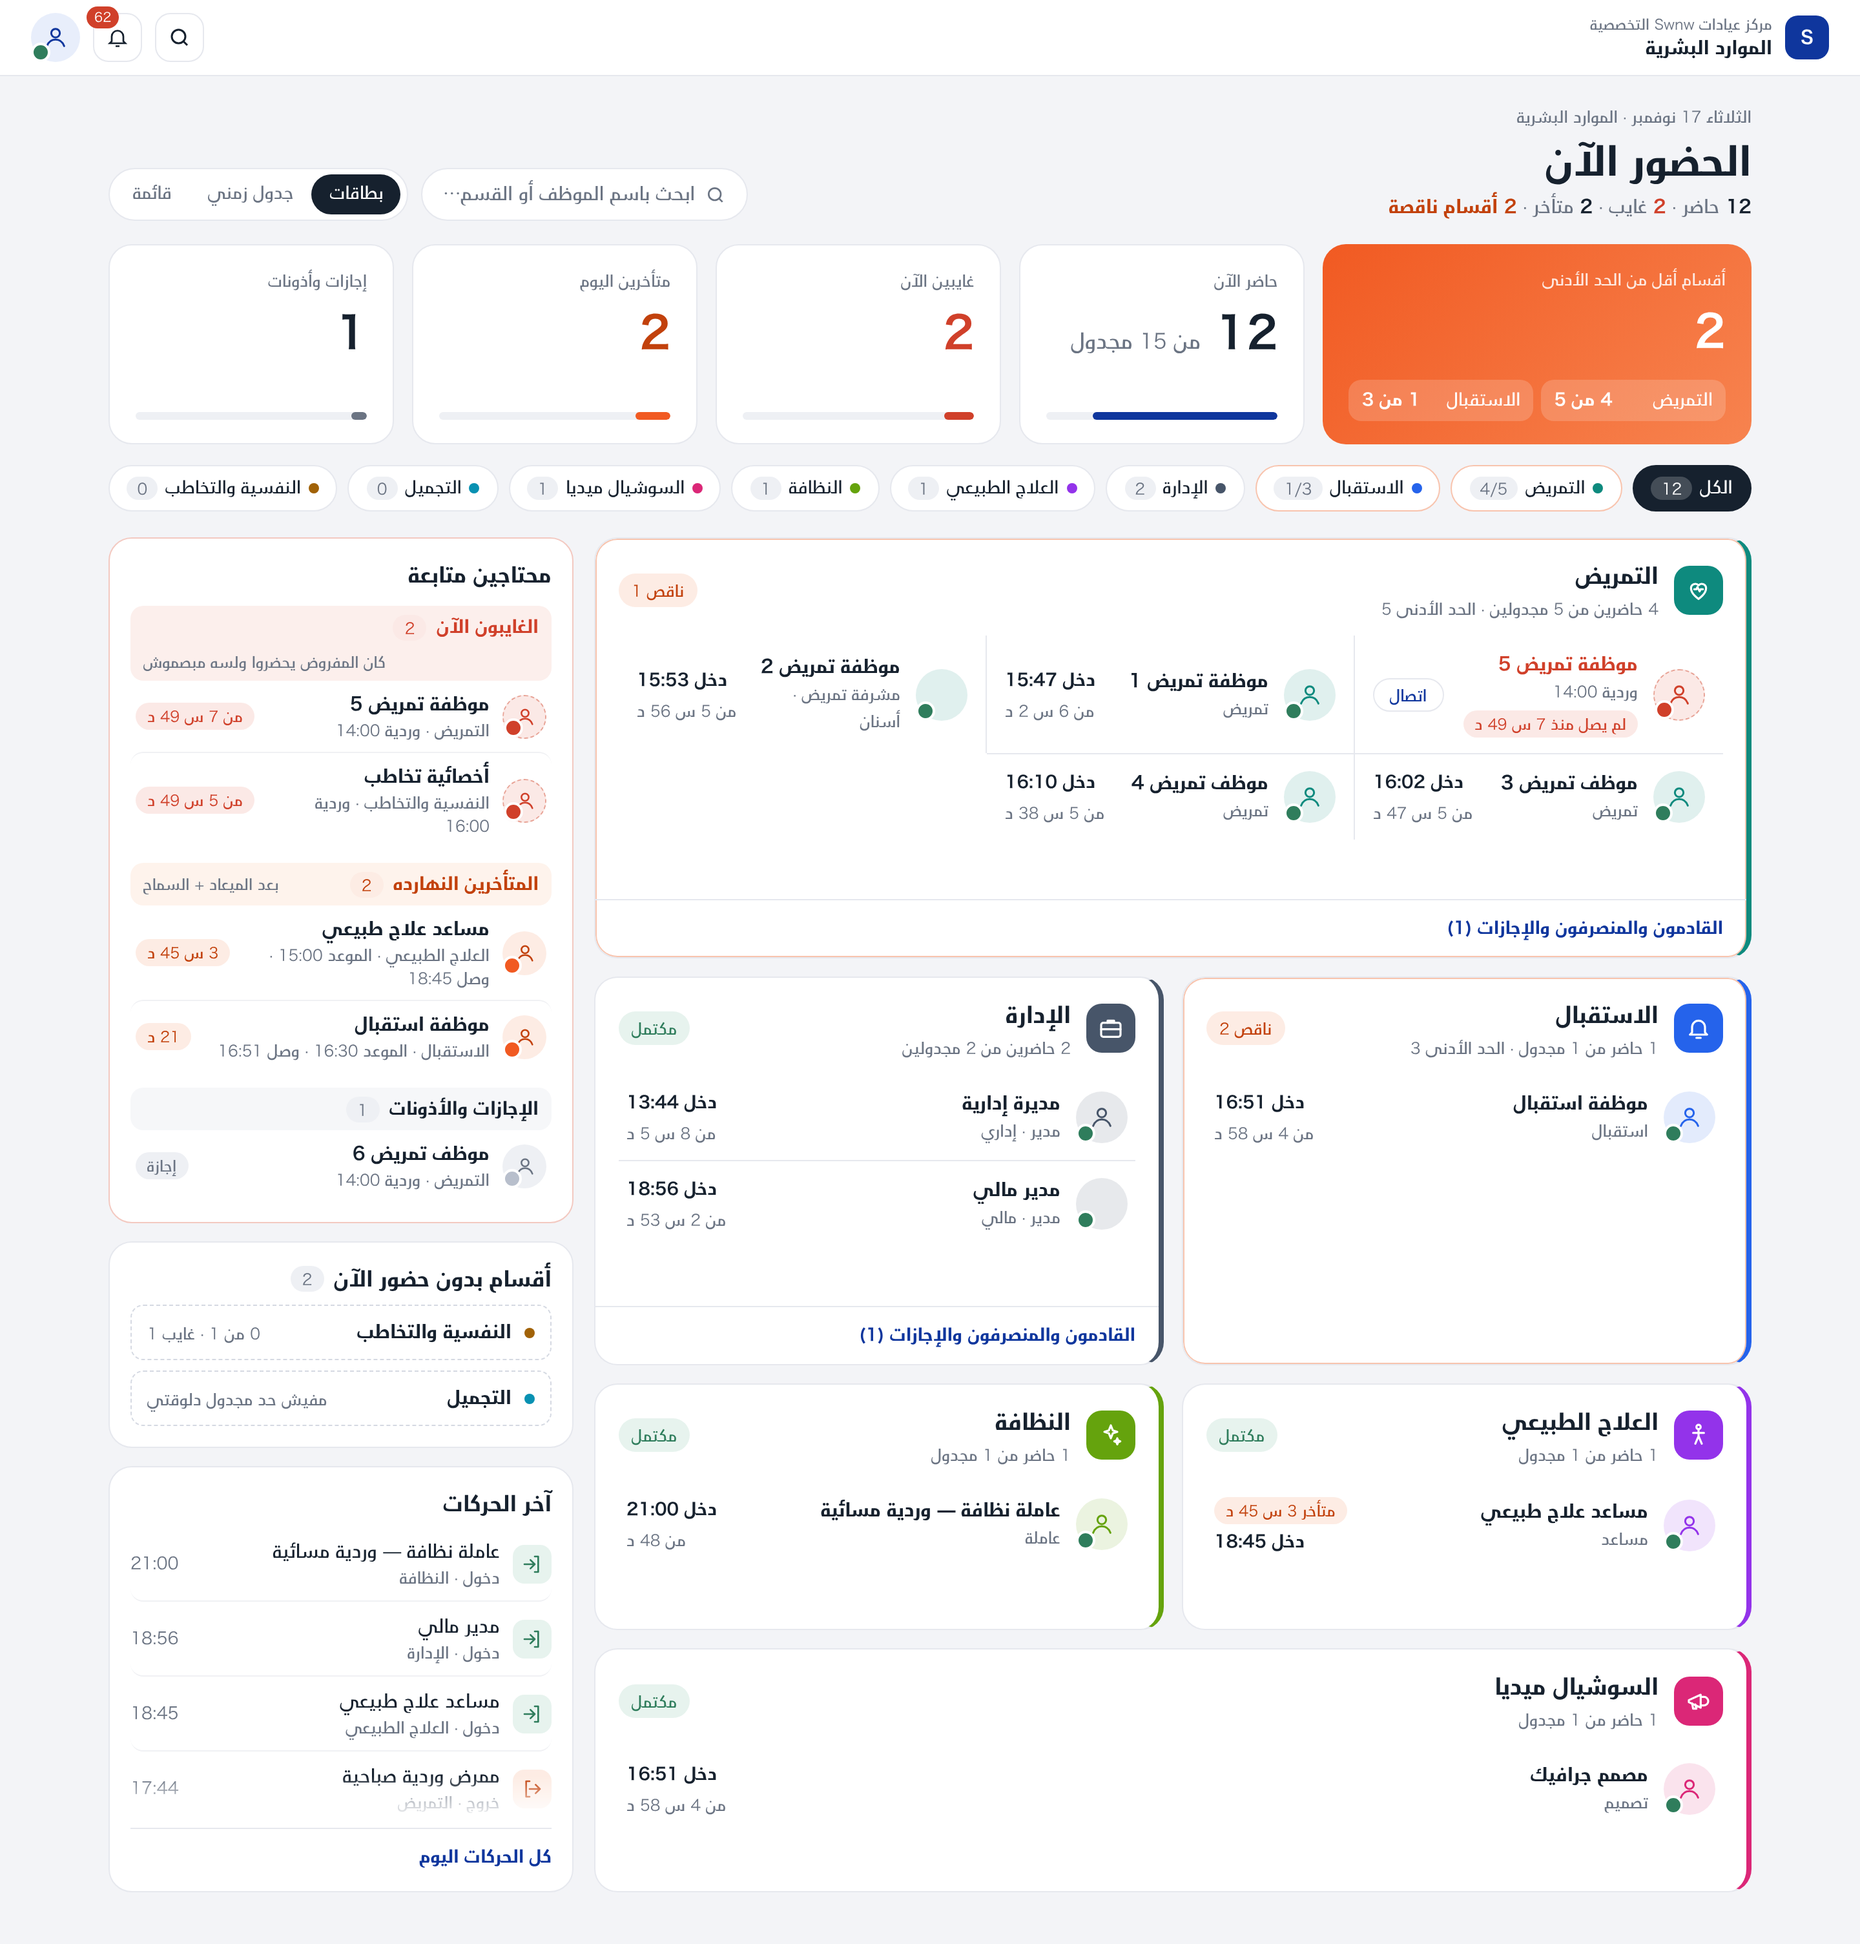
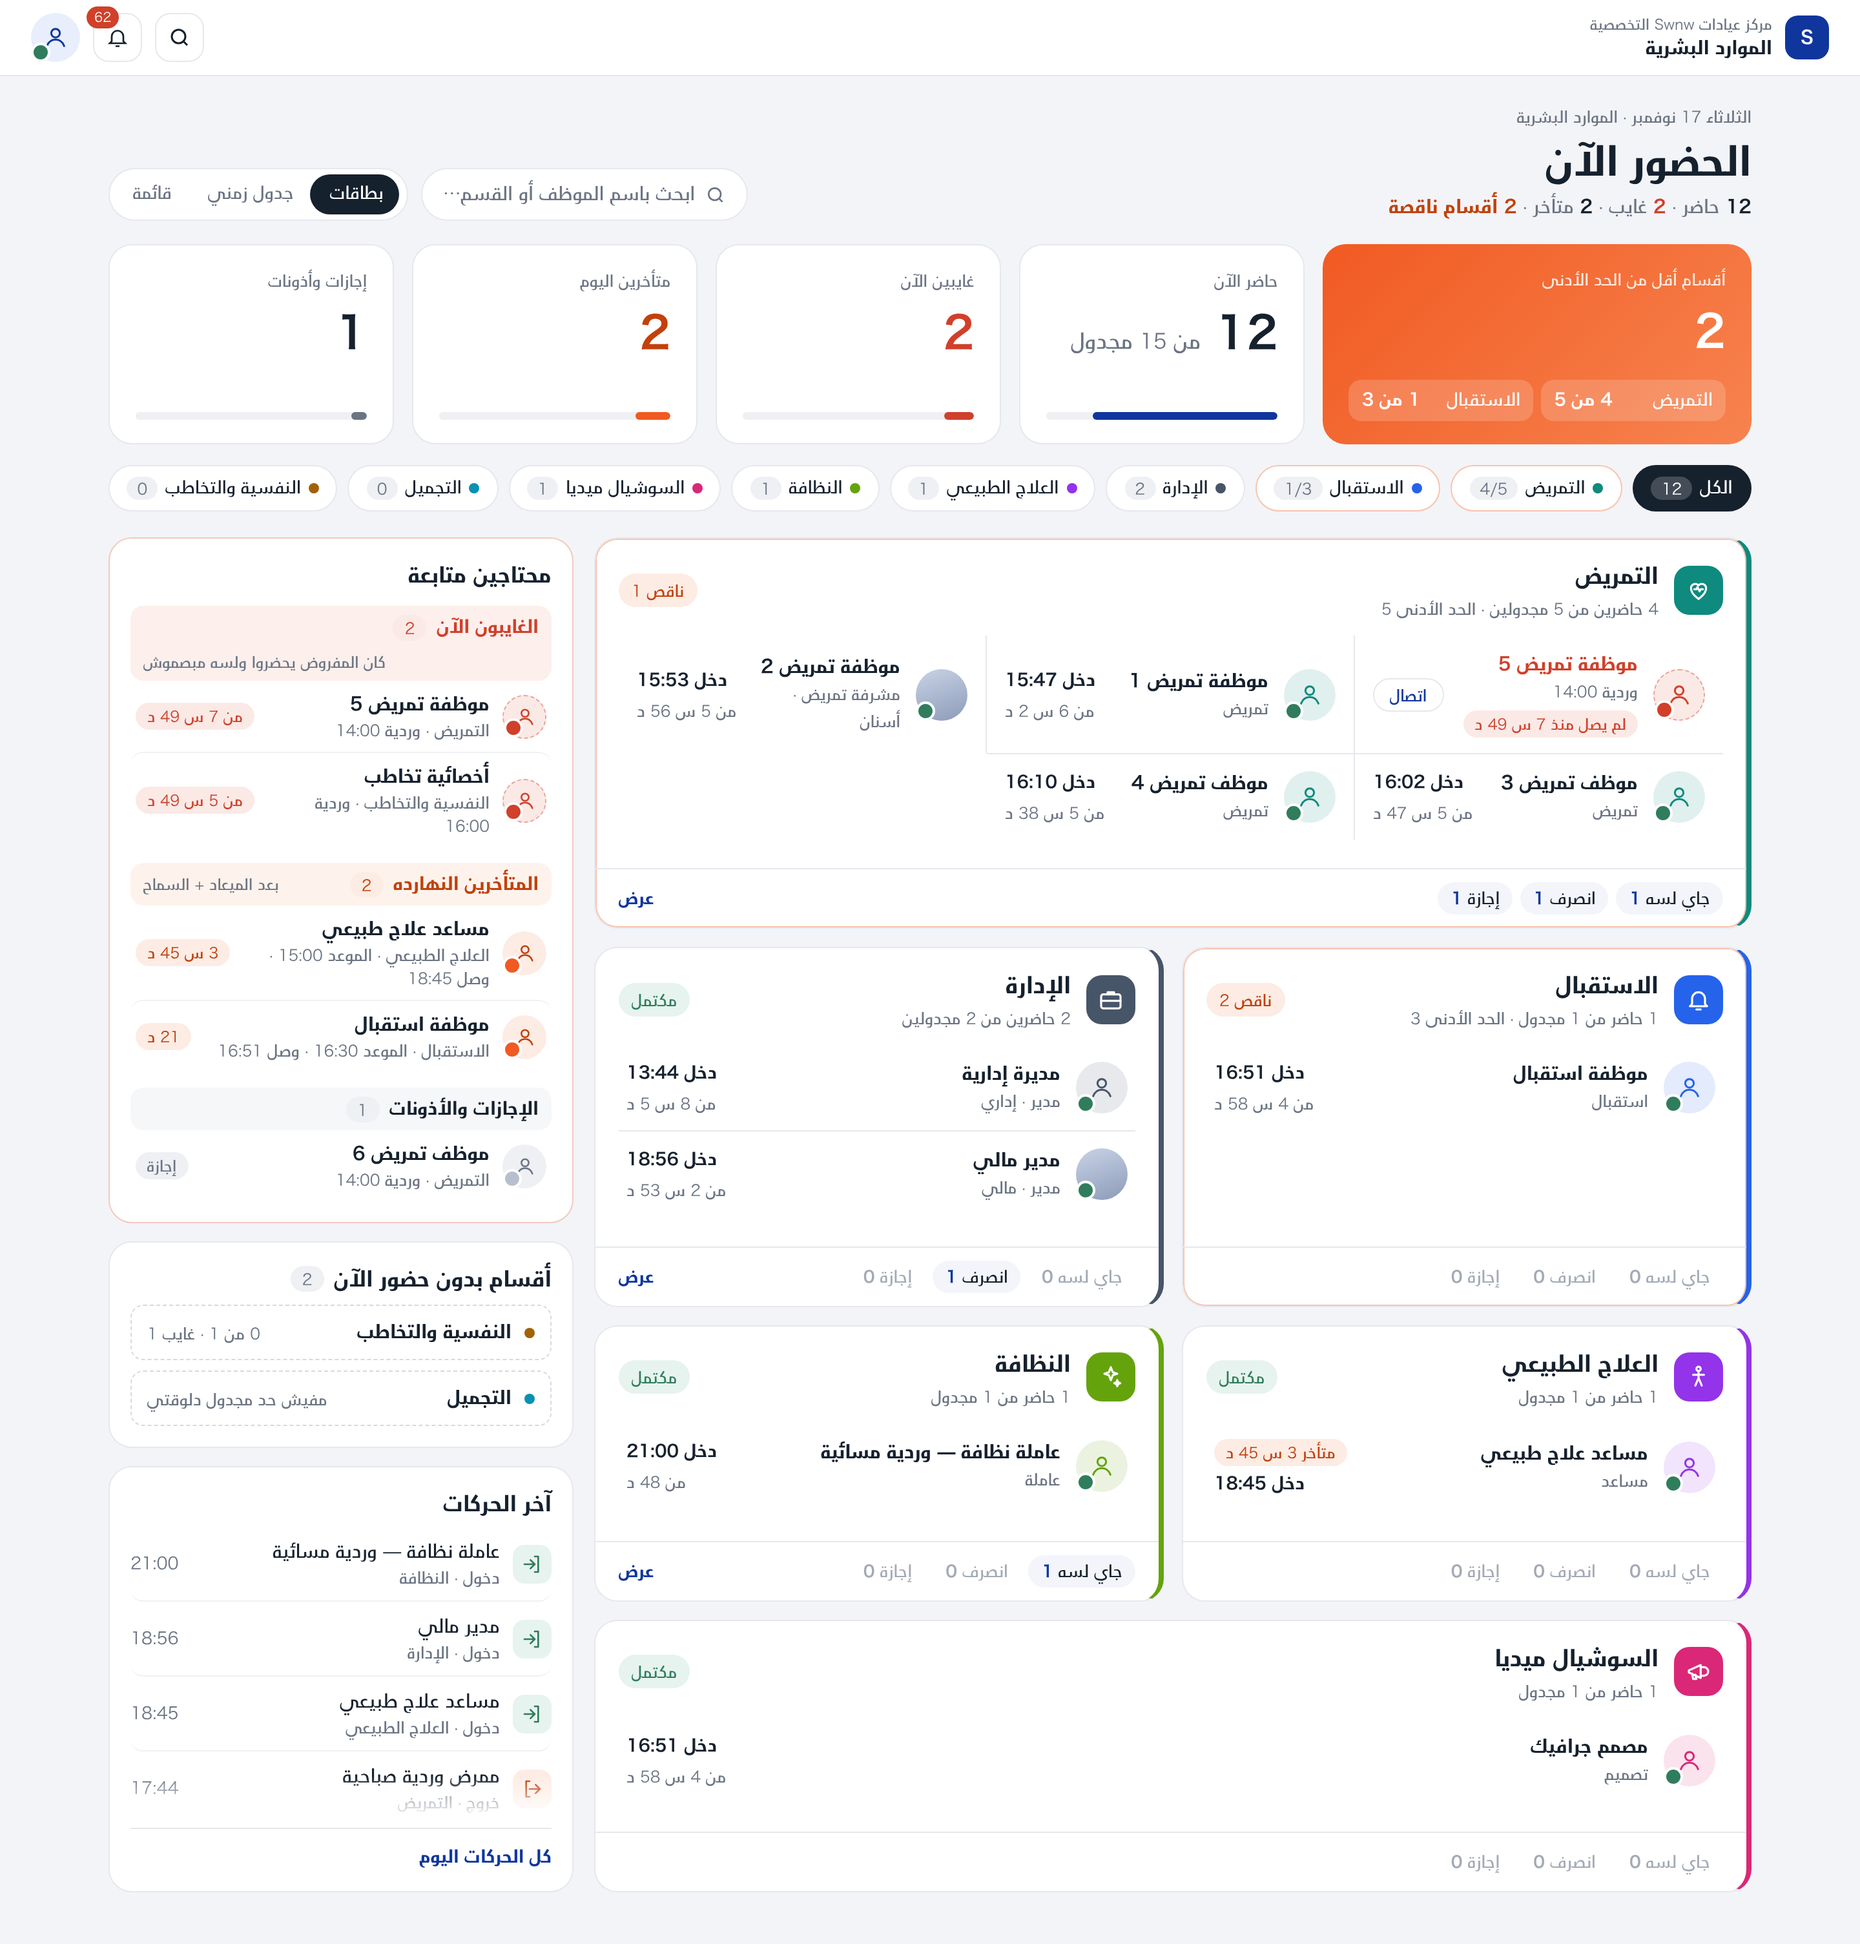
docs: HR presence mockup — same counters footer on every department card
Claude-Session: https://claude.ai/code/session_01UqVZHZihapbfrPRQkyZErA

diff --git a/docs/ui-references/mockups/hr-presence.html b/docs/ui-references/mockups/hr-presence.html
@@ -253,6 +253,14 @@ main{max-width:1320px;margin:0 auto;padding:22px 24px 40px}
 .dept.half:last-child:nth-child(even){grid-column:1/-1}
 .moves{min-height:330px}
 .dept{display:flex!important;flex-direction:column}.dept .more{margin-top:auto}
+
+.dfoot{margin-top:auto;display:flex;align-items:center;gap:6px;padding:10px 18px;border-top:1px solid var(--line);font-size:12.5px;flex-wrap:wrap}
+.fc{background:#F3F5FA;border-radius:999px;padding:3px 10px;color:var(--ink);cursor:pointer;transition:all .2s var(--ease)}
+.fc b{color:var(--blue)}
+.fc:hover{background:#E3E9F7}
+.fc.zero{background:transparent;color:#A3AAB6;cursor:default}.fc.zero b{color:#A3AAB6}
+.exp{margin-inline-start:auto;color:var(--blue);font-weight:600;cursor:pointer}
+.dept .row .av.photo{background:linear-gradient(160deg,#C9D3E6,#8C9BB8)!important}
 </style>
 </head>
 <body>
@@ -322,7 +330,7 @@ main{max-width:1320px;margin:0 auto;padding:22px 24px 40px}
             <li class="row"><span class="av"><svg><use href="#person"/></svg></span><div class="nm"><span class="t">موظف تمريض 3</span><small>تمريض</small></div><div class="meta"><b>دخل 16:02</b><span>من 5 س 47 د</span></div></li>
             <li class="row"><span class="av"><svg><use href="#person"/></svg></span><div class="nm"><span class="t">موظف تمريض 4</span><small>تمريض</small></div><div class="meta"><b>دخل 16:10</b><span>من 5 س 38 د</span></div></li>
           </ul>
-          <a class="more">القادمون والمنصرفون والإجازات (1)</a>
+          <div class="dfoot"><span class="fc">جاي لسه <b>1</b></span><span class="fc">انصرف <b>1</b></span><span class="fc">إجازة <b>1</b></span><span class="exp">عرض</span></div>
         </article>
 
         <article style="--dc:#2563EB" class="dept half short">
@@ -330,6 +338,7 @@ main{max-width:1320px;margin:0 auto;padding:22px 24px 40px}
           <ul class="rows">
             <li class="row"><span class="av"><svg><use href="#person"/></svg></span><div class="nm"><span class="t">موظفة استقبال</span><small>استقبال</small></div><div class="meta"><b>دخل 16:51</b><span>من 4 س 58 د</span></div></li>
           </ul>
+          <div class="dfoot"><span class="fc zero">جاي لسه <b>0</b></span><span class="fc zero">انصرف <b>0</b></span><span class="fc zero">إجازة <b>0</b></span></div>
         </article>
 
         <article style="--dc:#475569" class="dept half">
@@ -338,7 +347,7 @@ main{max-width:1320px;margin:0 auto;padding:22px 24px 40px}
             <li class="row"><span class="av"><svg><use href="#person"/></svg></span><div class="nm"><span class="t">مديرة إدارية</span><small>مدير · إداري</small></div><div class="meta"><b>دخل 13:44</b><span>من 8 س 5 د</span></div></li>
             <li class="row"><span class="av photo"></span><div class="nm"><span class="t">مدير مالي</span><small>مدير · مالي</small></div><div class="meta"><b>دخل 18:56</b><span>من 2 س 53 د</span></div></li>
           </ul>
-          <a class="more">القادمون والمنصرفون والإجازات (1)</a>
+          <div class="dfoot"><span class="fc zero">جاي لسه <b>0</b></span><span class="fc">انصرف <b>1</b></span><span class="fc zero">إجازة <b>0</b></span><span class="exp">عرض</span></div>
         </article>
 
         <article style="--dc:#9333EA" class="dept half">
@@ -346,6 +355,7 @@ main{max-width:1320px;margin:0 auto;padding:22px 24px 40px}
           <ul class="rows">
             <li class="row"><span class="av"><svg><use href="#person"/></svg></span><div class="nm"><span class="t">مساعد علاج طبيعي</span><small>مساعد</small></div><div class="meta"><span class="pill late">متأخر 3 س 45 د</span><b>دخل 18:45</b></div></li>
           </ul>
+          <div class="dfoot"><span class="fc zero">جاي لسه <b>0</b></span><span class="fc zero">انصرف <b>0</b></span><span class="fc zero">إجازة <b>0</b></span></div>
         </article>
 
         <article style="--dc:#65A30D" class="dept half">
@@ -353,12 +363,14 @@ main{max-width:1320px;margin:0 auto;padding:22px 24px 40px}
           <ul class="rows">
             <li class="row"><span class="av"><svg><use href="#person"/></svg></span><div class="nm"><span class="t">عاملة نظافة — وردية مسائية</span><small>عاملة</small></div><div class="meta"><b>دخل 21:00</b><span>من 48 د</span></div></li>
           </ul>
+          <div class="dfoot"><span class="fc">جاي لسه <b>1</b></span><span class="fc zero">انصرف <b>0</b></span><span class="fc zero">إجازة <b>0</b></span><span class="exp">عرض</span></div>
         </article>
         <article style="--dc:#DB2777" class="dept half">
           <div class="dh"><div class="dt"><span class="dsq"><svg><use href="#d5"/></svg></span><div><b>السوشيال ميديا</b><small>1 حاضر من 1 مجدول</small></div></div><span class="st ok">مكتمل</span></div>
           <ul class="rows">
             <li class="row"><span class="av"><svg><use href="#person"/></svg></span><div class="nm"><span class="t">مصمم جرافيك</span><small>تصميم</small></div><div class="meta"><b>دخل 16:51</b><span>من 4 س 58 د</span></div></li>
           </ul>
+          <div class="dfoot"><span class="fc zero">جاي لسه <b>0</b></span><span class="fc zero">انصرف <b>0</b></span><span class="fc zero">إجازة <b>0</b></span></div>
         </article>
       </div>
     </div>
